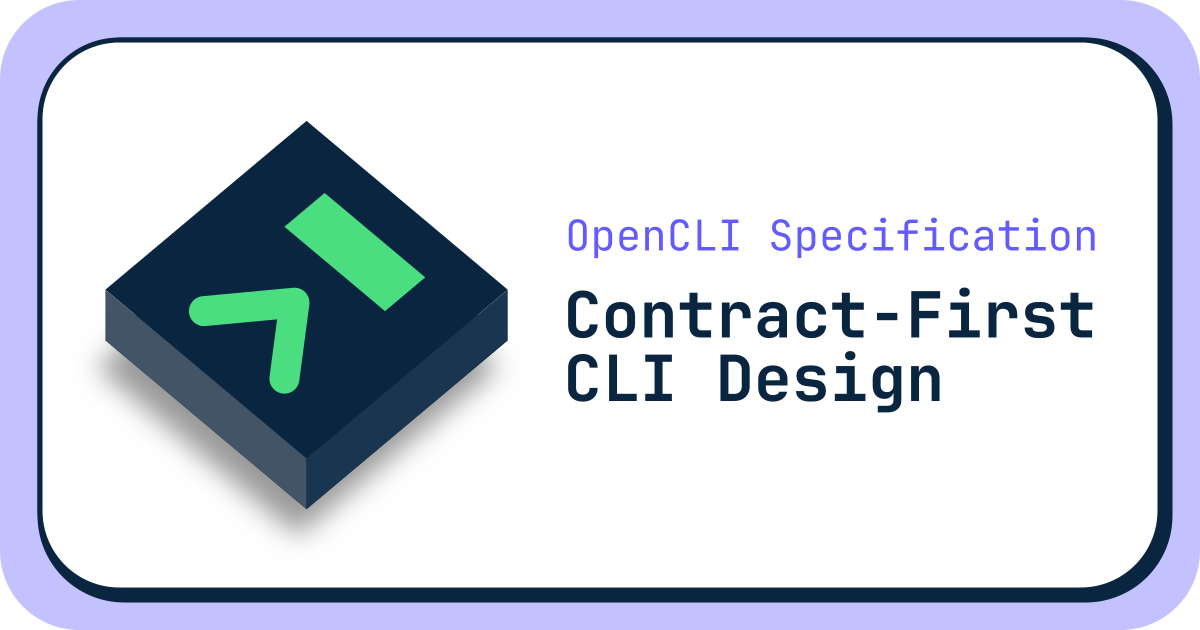
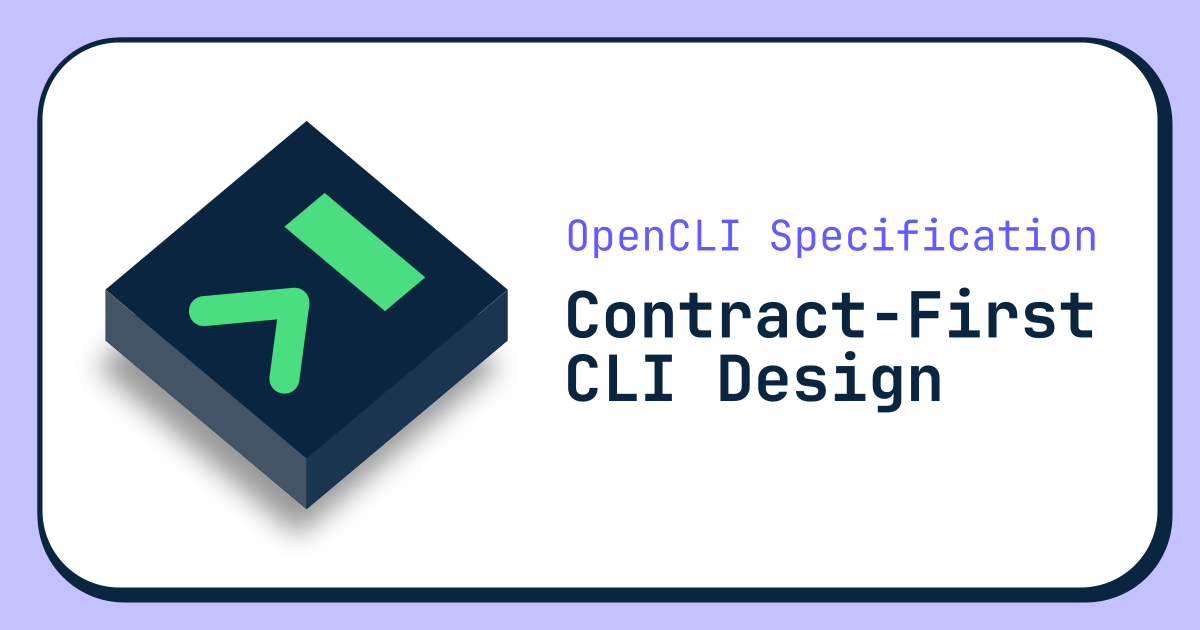
fix: editor html docs render issue

diff --git a/index.html b/index.html
@@ -36,8 +36,8 @@
     <!-- wasm_exec.js must load before the app bundle to provide the Go class -->
     <script src="./wasm_exec.js"></script>
     <script src="./ocli-docs.js"></script>
-    <script type="module" crossorigin src="./assets/index-DPrTlllp.js"></script>
-    <link rel="stylesheet" crossorigin href="./assets/index-DgLtK9uP.css">
+    <script type="module" crossorigin src="./assets/index-9iRMNb2U.js"></script>
+    <link rel="stylesheet" crossorigin href="./assets/index-C05EdG4y.css">
   </head>
   <body>
     <div id="root"></div>

diff --git a/assets/index-C05EdG4y.css b/assets/index-C05EdG4y.css
@@ -1,0 +1,1 @@
+@import "https://fonts.googleapis.com/css2?family=Space+Grotesk:wght@400;500;700&family=JetBrains+Mono:wght@400;600&display=swap";@import "https://fonts.googleapis.com/css2?family=Space+Grotesk:wght@400;500;700&family=JetBrains+Mono:wght@400;600&display=swap";header{z-index:4;-webkit-backdrop-filter:blur(16px);backdrop-filter:blur(16px);--muted:#425466;--text:#0a2540;color:var(--text);background:#ffffffc2;border-bottom:1px solid #32325d14;justify-content:space-between;align-items:center;gap:20px;padding:18px 32px;font-family:Space Grotesk,-apple-system,BlinkMacSystemFont,Segoe UI,sans-serif;display:flex;position:sticky;top:0}.header-logo a{letter-spacing:.12em;color:var(--blue-strong);font-family:JetBrains Mono,ui-monospace,SFMono-Regular,Menlo,monospace;font-size:.84rem;font-weight:700;text-decoration:none}.header-logo a:hover{color:var(--blue)}.header-nav{flex-wrap:wrap;justify-content:flex-end;align-items:center;gap:10px;display:flex}.header-nav a{color:var(--muted);font-size:.95rem;font-weight:500;text-decoration:none}.header-nav a:hover{color:var(--blue-strong)}.header-nav>a:not(.github-link){border-radius:999px;padding:8px 12px;transition:background-color .15s,color .15s}.header-nav>a:not(.github-link):hover{background:#635bff14}.github-link{border-radius:999px;align-items:center;gap:.35em;padding:8px 12px;line-height:1;transition:background-color .15s,color .15s;display:inline-flex}.github-link svg{fill:currentColor;flex-shrink:0;width:1em;height:1em}.github-link:hover{color:var(--blue-strong);background:#635bff14}@media (width<=980px){header{padding:16px 18px}}@media (width<=640px){header{flex-direction:column;align-items:flex-start}.header-nav{justify-content:flex-start;width:100%}}.landing-route{min-height:100vh;color:var(--text);background:radial-gradient(circle at 12% 10%, #635bff1f, transparent 28%), radial-gradient(circle at 88% 14%, #0a95ff1f, transparent 24%), radial-gradient(circle at 70% 84%, #635bff14, transparent 28%), linear-gradient(180deg, #fff 0%, var(--bg) 18%, var(--bg) 100%);font-family:Space Grotesk,-apple-system,BlinkMacSystemFont,Segoe UI,sans-serif}.landing-main{max-width:1180px;margin:0 auto;padding:30px 24px}.hero-shell{grid-template-columns:minmax(0,.92fr) minmax(420px,.92fr);align-items:center;gap:34px;display:grid}.hero-copy{max-width:560px}.hero-copy h2{padding:5px 0 20px}.hero-kicker{color:var(--blue);letter-spacing:.16em;font-family:JetBrains Mono,ui-monospace,SFMono-Regular,Menlo,monospace;font-size:.82rem;font-weight:700}.hero-copy h1{letter-spacing:-.055em;color:var(--blue-strong);margin:18px 0 16px;font-size:clamp(1.5rem,6vw,2.5rem);line-height:.98}.hero-copy p{color:var(--muted);max-width:540px;margin:0;font-size:clamp(1.03rem,1.45vw,1.05rem);line-height:1.55}.hero-actions{flex-wrap:wrap;gap:14px;margin-top:30px;display:flex}.button{border-radius:999px;justify-content:center;align-items:center;padding:13px 18px;font-weight:700;text-decoration:none;transition:transform .15s,box-shadow .15s,border-color .15s;display:inline-flex}.button:hover{transform:translateY(-1px)}.button.primary{color:#fff;background:linear-gradient(135deg,#635bff,#3f8cff);box-shadow:0 16px 32px #635bff3d}.button.primary:hover{box-shadow:0 18px 36px #635bff4d}.button.secondary{color:var(--blue-strong);background:#ffffffe6;border:1px solid #32325d24}.button.secondary:hover{border-color:#635bff42}.hero-tags{flex-wrap:wrap;gap:10px;margin-top:26px;display:flex}.hero-tags span{color:#5c6f82;border:1px solid var(--line);background:#ffffffd1;border-radius:999px;padding:7px 12px;font-family:JetBrains Mono,ui-monospace,SFMono-Regular,Menlo,monospace}.terminal-shot{width:100%;max-width:680px;box-shadow:var(--shadow);background:linear-gradient(#fffffffa,#f8faffeb);border:1px solid #32325d24;border-radius:24px;margin-left:auto;animation:.7s rise-in;overflow:hidden}.terminal-titlebar{background:linear-gradient(90deg,#635bff14,#0a95ff14);border-bottom:1px solid #32325d14;align-items:center;gap:8px;height:48px;padding:0 18px;display:flex}.terminal-titlebar span{opacity:.65;background:#9aa9bd;border-radius:999px;width:11px;height:11px}.terminal-body{color:#16314d;padding:26px;font-family:JetBrains Mono,ui-monospace,SFMono-Regular,Menlo,monospace;font-size:.7rem;line-height:1.8}.terminal-body p{margin:0}.terminal-body .ok{color:#0a7b63}.terminal-body .muted{color:#71839a;margin-top:12px}.terminal-body .yaml-key{color:#635bff}.terminal-body .yaml-punct{color:#9aa9bd}.terminal-body .yaml-value{color:#0a7b63}.terminal-body .yaml-string{color:#c35b00}.terminal-body .yaml-bool{color:#0a7b63;font-style:italic}.terminal-body .yaml-bullet{color:#9aa9bd}.terminal-body .yaml-comment{color:#9aa9bd;font-style:italic}.benefits{grid-template-columns:repeat(3,minmax(0,1fr));gap:16px;margin-top:56px;display:grid}.benefits article{border:1px solid var(--line);background:var(--surface);-webkit-backdrop-filter:blur(12px);backdrop-filter:blur(12px);border-radius:22px;padding:24px;transition:transform .18s,border-color .18s,box-shadow .18s;box-shadow:0 12px 28px #32325d0f}.benefits article:hover{border-color:#635bff3d;transform:translateY(-2px);box-shadow:0 18px 34px #32325d1a}.benefits h2{color:var(--blue-strong);margin-bottom:10px;font-size:1.12rem}.benefits p{color:var(--muted);line-height:1.55}.artifact-shot{animation:.74s rise-in;position:relative}.artifact-body{min-height:420px;position:relative}.markdown-docs{background:linear-gradient(#fffffff5,#f7faffeb),radial-gradient(circle at 0 0,#0a95ff1f,#0000 34%);flex-direction:column;justify-content:flex-start;gap:10px;width:80%;display:flex;position:absolute;top:10px;right:20%;box-shadow:0 20px 44px #32325d29}.vscode-docs-shot{z-index:2;background:#2f3750;border:1px solid #32325d47;border-radius:18px;width:50%;margin:0;position:absolute;top:40%;right:0;overflow:hidden;box-shadow:0 22px 44px #32325d33}.vscode-layout-illustration{aspect-ratio:19/14;width:100%;height:auto;display:block}.example-label{color:#4f5f73;background:#ffffffa3;border-bottom:1px solid #32325d14;padding:11px 18px;font-family:JetBrains Mono,ui-monospace,SFMono-Regular,Menlo,monospace;font-size:.82rem}.example-body{min-height:260px;margin:0;font-size:.89rem;line-height:1.65;overflow-x:auto}.generated-preview-shot{flex-direction:column;display:flex}.generated-preview-body{background:radial-gradient(circle at 15% 0,#635bff1a,#0000 36%),linear-gradient(#fafcffe6,#f3f8fff0);grid-template-columns:repeat(2,minmax(0,1fr));gap:14px;min-height:260px;padding:22px;display:grid}.docs-pane{transform:rotate(-1.2deg)}.code-pane{transform:rotate(1deg)}@keyframes rise-in{0%{opacity:0;transform:translateY(14px)scale(.99)}to{opacity:1;transform:translateY(0)scale(1)}}@media (width<=980px){.landing-main{padding-top:48px}.hero-shell{grid-template-columns:1fr}.hero-copy,.terminal-shot{max-width:none}.benefits{grid-template-columns:1fr}.generated-preview-body{grid-template-columns:1fr;min-height:auto}.example-body{min-height:auto}.artifact-body{min-height:390px}.markdown-docs{width:94%;height:300px;padding:18px}.vscode-docs-shot{width:86%}}@media (width<=640px){.landing-main{padding:40px 16px 72px}.hero h1{font-size:clamp(2.4rem,13vw,4.4rem)}.hero-actions{width:100%}.button{flex:auto}.terminal-body{padding:20px}.artifact-body{min-height:332px}.markdown-docs{gap:8px;width:96%;height:244px;padding:14px}.md-line{height:8px}.vscode-docs-shot{width:90%}}.editor-panel{border-right:1px solid #e0e0e0;flex-direction:column;flex:1;min-width:0;display:flex;overflow:hidden}.editor-header{background:#f8f8f8;border-bottom:1px solid #e0e0e0;flex-shrink:0;align-items:center;gap:8px;padding:8px 12px;display:flex}.editor-header span{color:#555;margin-right:4px;font-size:13px;font-weight:600}.editor-body{flex:1;position:relative;overflow:hidden}.editor-body .cm-editor{height:100%}.editor-body .cm-scroller{height:100%;overflow:auto}.editor-footer{background:#fafafa;border-top:1px solid #e0e0e0;flex-shrink:0;max-height:160px;font-size:12px;overflow-y:auto}.validation-valid{color:#2d8a4e;padding:6px 12px;font-weight:500}.validation-errors{padding:4px 0}.validation-error-item{color:#c0392b;padding:4px 12px;line-height:1.4}.validation-error-item .error-path{font-weight:600}.preview-panel{flex-direction:column;flex:1;min-width:0;display:flex;overflow:hidden}.preview-header{background:#f8f8f8;border-bottom:1px solid #e0e0e0;flex-shrink:0;align-items:center;gap:16px;padding:8px 12px;display:flex}.preview-header-group{align-items:center;gap:6px;display:flex}.preview-header-group span{color:#555;margin-right:2px;font-size:13px;font-weight:600}.preview-body{flex:1;position:relative;overflow:hidden}.preview-iframe{border:none;width:100%;height:100%}.preview-raw{background:#fafafa;width:100%;height:100%;padding:16px;overflow:auto}.preview-raw code{white-space:pre-wrap;word-break:break-all;color:#333;font-family:Menlo,Monaco,Courier New,monospace;font-size:12px;display:block}.preview-markdown{width:100%;height:100%;padding:24px 32px;line-height:1.6;overflow:auto}.preview-markdown h1,.preview-markdown h2,.preview-markdown h3,.preview-markdown h4{margin-top:1.2em;margin-bottom:.4em;font-weight:600}.preview-markdown p{margin-bottom:.8em}.preview-markdown code{background:#f0f0f0;border-radius:3px;padding:1px 4px;font-family:Menlo,Monaco,Courier New,monospace;font-size:12px}.preview-markdown pre{background:#f4f4f4;border-radius:6px;margin-bottom:1em;padding:12px 16px;overflow-x:auto}.preview-markdown pre code{background:0 0;padding:0}.preview-markdown table{border-collapse:collapse;width:100%;margin-bottom:1em}.preview-markdown th,.preview-markdown td{text-align:left;border:1px solid #ddd;padding:6px 12px}.preview-markdown th{background:#f0f0f0;font-weight:600}.preview-error{color:#c0392b;padding:16px;font-size:13px}.toggle-btn{cursor:pointer;color:#333;background:#fff;border:1px solid #ccc;border-radius:4px;padding:3px 10px;font-size:12px;transition:background .1s,border-color .1s}.toggle-btn.active{color:#fff;background:#1a6bbf;border-color:#1a6bbf}.toggle-btn:not(.active):hover{background:#f0f0f0}.editor-route{background:#fff;flex-direction:column;height:100vh;display:flex}.panels{flex-direction:row;flex:1;display:flex;overflow:hidden}.panel{flex-direction:column;min-width:0;height:100%;display:flex;overflow:hidden}.panels-divider{cursor:col-resize;-webkit-user-select:none;user-select:none;background:#d0d0d0;flex:0 0 4px;transition:background-color .15s}.panels-divider:hover{background:#999}.panels-divider:active{background:#666}.loading-overlay{z-index:100;color:#555;background:#ffffffd9;justify-content:center;align-items:center;font-size:16px;display:flex;position:absolute;inset:0}.spec-page{color:#0a2540;background:radial-gradient(circle at 12% 10%,#635bff1f,#0000 28%),radial-gradient(circle at 88% 14%,#0a95ff1f,#0000 24%),linear-gradient(#fff 0%,#f6f9fc 18% 100%);min-height:100vh;font-family:Space Grotesk,-apple-system,BlinkMacSystemFont,Segoe UI,sans-serif}.spec-main{max-width:1180px;margin:0 auto;padding:48px 24px 96px}.spec-disclaimer{background:linear-gradient(#fffffffa,#f8faffeb);border:1px solid #32325d24;border-radius:16px;margin:0 0 18px;padding:16px 18px;box-shadow:0 14px 36px #32325d14}.spec-disclaimer-title{color:#635bff;letter-spacing:.14em;text-transform:uppercase;margin:0 0 8px;font-family:JetBrains Mono,ui-monospace,SFMono-Regular,Menlo,monospace;font-size:.79rem;font-weight:700}.spec-disclaimer-copy{color:#425466;margin:0;font-size:.98rem;line-height:1.55}.spec-disclaimer-copy+.spec-disclaimer-copy{margin-top:8px}.spec-disclaimer code{color:#16314d;background:#635bff1f;border:1px solid #635bff3d;border-radius:8px;padding:.1em .45em;font-family:JetBrains Mono,ui-monospace,SFMono-Regular,Menlo,monospace;font-size:.89em}.spec-shell{grid-template-columns:minmax(0,.92fr) minmax(0,1.08fr);align-items:start;gap:24px;display:grid}.spec-copy{max-width:520px;padding-top:10px}.spec-kicker{color:#635bff;letter-spacing:.16em;font-family:JetBrains Mono,ui-monospace,SFMono-Regular,Menlo,monospace;font-size:.82rem;font-weight:700}.spec-copy h1{letter-spacing:-.055em;margin:18px 0 14px;font-size:clamp(2.3rem,5vw,4.6rem);line-height:.98}.spec-copy p{color:#425466;margin:0;font-size:clamp(1.02rem,1.4vw,1.22rem);line-height:1.58}.spec-main pre{color:#16314d;background:linear-gradient(#fffffffa,#f8faffeb);border:1px solid #32325d24;border-radius:24px;min-height:60vh;margin:0;padding:24px;font-size:13px;line-height:1.6;overflow:auto;box-shadow:0 24px 60px #32325d1f}@media (width<=980px){.spec-header{padding:16px 18px}.spec-shell{grid-template-columns:1fr}.spec-main{padding-top:36px}}@media (width<=640px){.spec-header{flex-direction:column;align-items:flex-start}.spec-nav{justify-content:flex-start;width:100%}.spec-main{padding:32px 16px 72px}.spec-disclaimer{padding:14px}.spec-disclaimer-copy{font-size:.94rem}.spec-main pre{min-height:48vh;padding:18px}}.app{flex-direction:column;height:calc(100vh - 72px);display:flex;position:relative}*{box-sizing:border-box;margin:0;padding:0}html,body,#root{min-height:100%}body{color:#1a1a1a;--bg:#f6f9fc;--bg-2:#eef4ff;--surface:#ffffffd1;--surface-strong:#fff;--text:#0a2540;--muted:#425466;--line:#32325d1f;--line-strong:#32325d2e;--blue:#635bff;--blue-strong:#0a2540;--blue-soft:#e8efff;--shadow:0 24px 60px #32325d1f;background:#fff;font-family:system-ui,-apple-system,sans-serif;font-size:14px}